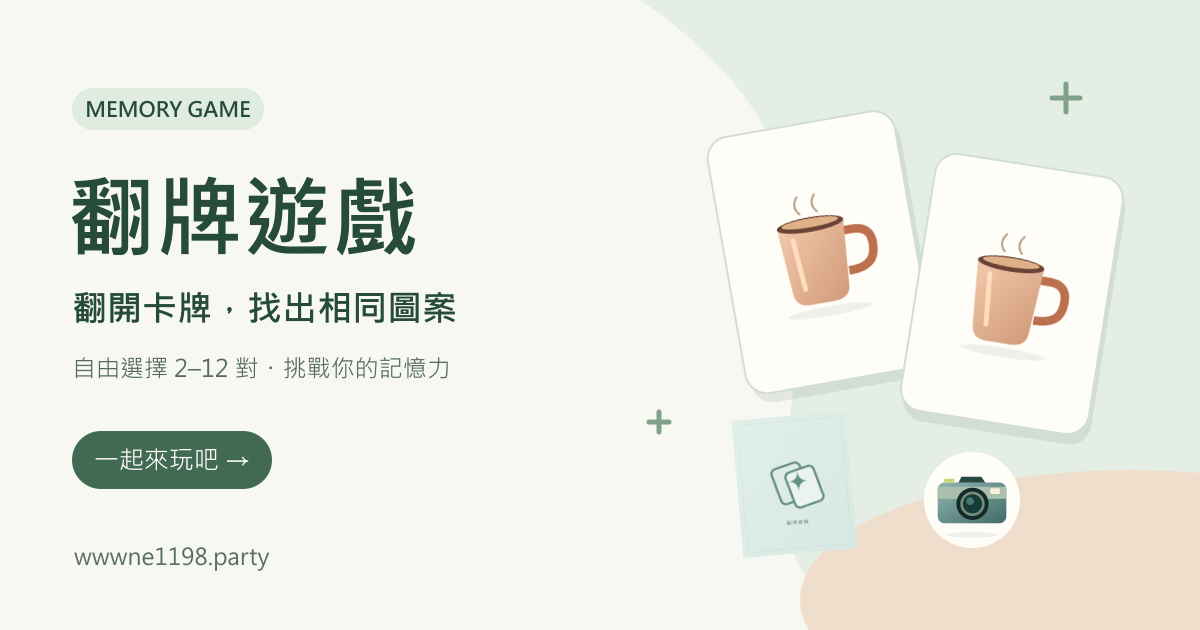
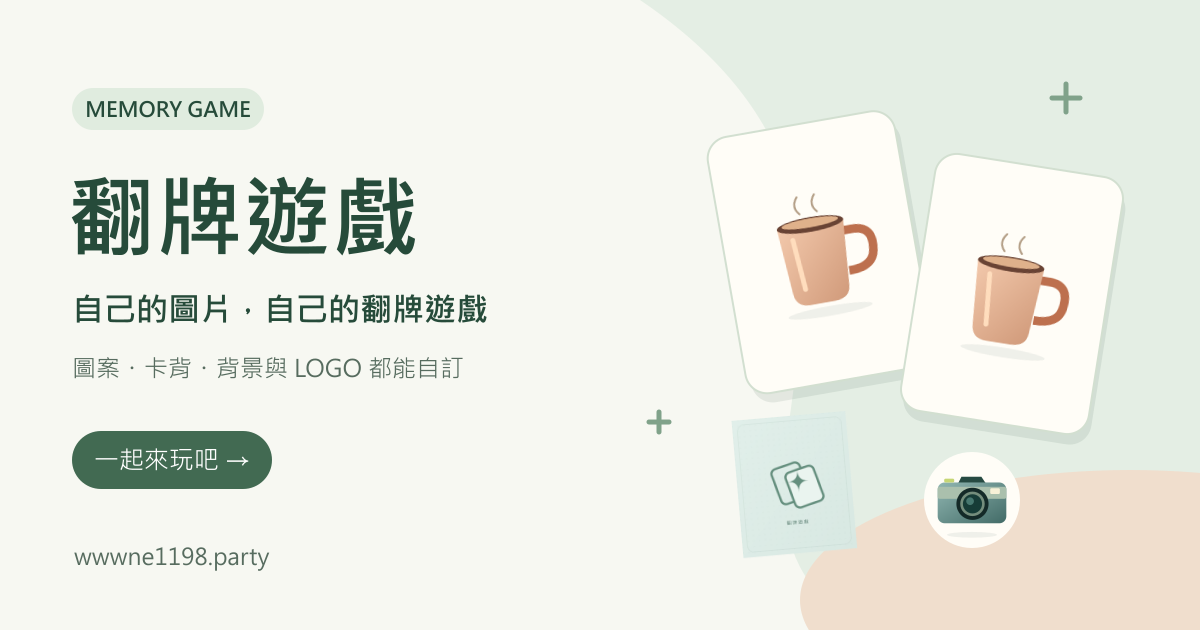
1.1.1

Changed region(s): [[0.0617, 0.4524, 0.4317, 0.5127], [0.0617, 0.5429, 0.4008, 0.6032]]

diff --git a/src/pages/help.html b/src/pages/help.html
@@ -1,1 +1,1 @@
-<article class="prose"><p class="eyebrow">使用說明</p><h1>翻牌遊戲操作說明</h1><p>開始遊戲後，先記住預覽中的圖案位置。預覽結束才開始計算挑戰用時。一次翻開兩張卡牌；相同的圖案會保持顯示，不同的圖案會在短暫停留後蓋上。</p><h2>玩法與計時</h2><p>預設為 6 對（12 張），不限時，開局記憶預覽 3 秒。你可以在設定更改配對數量、限時、預覽時間與配對失敗停留時間。每次有效翻開一張牌計為一次翻牌；同一張牌連點不重複計次。</p><p>「重新開始」只在遊戲進行期間顯示；取消重新開始會回到原本的遊戲狀態。暫停時會遮住牌面，暫停時間不計入成績。切換分頁時自動暫停，回來後請按「繼續」。限時到達時優先判定時間到，不能再翻牌；在時限之前完成最後一對才算過關。</p><h2>設定與畫面預覽</h2><p>設定面板有玩法、卡牌與圖庫、畫面、成績、雲端代碼五個分頁。卡背、12 個正面圖案、背景與 LOGO 都可使用內建素材或自己的圖片。圖庫直接勾選圖案，至少保留 2 種。其他設定欄位與分頁可恢復預設。預覽可切換整體畫面、卡牌細節、正面、卡背與配對成功；修改卡背或選中的圖案時會自動顯示對應效果。手機上預覽保持在設定上方，也可放大查看。圖片可調整大小、位置、透明度、旋轉、四側裁切與顯示方式。LOGO 的畫布寬、高與畫布內圖案縮放各自獨立。</p><p>在設定內按 Ctrl+Z（macOS 為 Cmd+Z）可復原整體設定；文字輸入框保留瀏覽器的文字復原。一次滑桿拖曳只算一步。按「儲存並套用」後，面板保持開啟；若正在遊戲，套用設定會結束該局並回到準備畫面。關閉未套用的草稿會先確認是否捨棄。</p><h2>上傳自己的圖片</h2><p>在「卡牌與圖庫」上傳卡背、選擇要替換的正面圖案；在「畫面」上傳背景或 LOGO。支援 10 MiB、4,000 萬像素以內的 PNG、JPG、WebP。瀏覽器會轉成 WebP、移除原圖中繼資料，並壓縮到每張 256 KiB 以內；背景長邊最多 1536 像素，其餘 1024 像素。縮放、位置、透明度、旋轉與四側裁切都能直接預覽。</p><p>選圖時只保存到此瀏覽器，按「儲存並套用」才會更改遊戲。移除自訂圖片會改用目前選擇的內建素材。圖片保存需要瀏覽器允許 IndexedDB；清除網站資料會移除圖片，建議先保存雲端代碼。</p><h2>數字代碼與跨裝置設定</h2><p>在「雲端代碼」按「產生代碼」並完成驗證，會保存目前草稿與圖片；每份最多 15 張自訂圖片、4 MiB。把顯示的 12 位數字記下，在另一台裝置同一網站的「雲端代碼」輸入，載入後檢查預覽並按「儲存並套用」。修改草稿後需重新產生代碼，舊代碼內容不會被覆寫。</p><p>最後一次成功透過代碼讀取後，30 天未再讀取將失效，伺服器每小時分批清理；只有在本機玩遊戲不會延長期限。讀取後圖片保存在裝置上，不必每次翻牌重新下載。雲端不保存暱稱、排行榜與成績紀錄。</p><p>知道代碼的人都能讀取設定與圖片。請只上傳有權使用、適合分享的內容，不要上傳私密圖片。原建立瀏覽器可在「此瀏覽器建立的代碼」刪除雲端檔；清除網站資料也會清除刪除憑證，已下載到其他裝置的副本不會隨雲端刪除。</p><p>每個網路每日最多產生 5 組、讀取 60 次。全站每日最多 100 次保存、2000 次讀取，並有整體容量限制。達到限額時請稍後或隔日再試，本機遊戲不受影響。每日額度於台灣時間上午 8 點（UTC 午夜）重置，失敗操作也可能計入次數。雲端操作使用 Cloudflare Turnstile 驗證；Cloudflare 會處理請求連線資訊，網站限流僅短暫保存每日雜湊識別，不保存原始 IP。</p><h2>排行榜</h2><p>同一遊戲頁連續玩多局，可以使用不同暱稱留下排名。排行榜只收錄過關成績，依挑戰用時（整數毫秒）、翻牌次數、完成時間排序；完全相同時保持原順序。不同卡牌數量、限時與圖庫等難度設定分組比較，背景、標題和 LOGO 不影響名次分組。</p><p>重新開始、開關設定與進出全螢幕保留本次排名。重新整理、離開遊戲頁或關閉後再開啟會清空。多個分頁各自獨立，歷史成績不會加入本次排行榜。</p><h2>成績紀錄與 CSV</h2><p>成績紀錄預設關閉。本次排行榜可獨立啟用，不會因此保存歷史紀錄。開啟成績紀錄後，只保存你勾選的欄位，另保留必要的成績識別碼、完整組別識別碼與當時規則。關閉紀錄不會刪除已保存的明細。</p><p>全部成績紀錄僅儲存在此瀏覽器，最多保留 500 筆。你可下載 UTF-8 BOM CSV，以 Excel 查看繁體中文。挑戰用時格式為「12 秒 345 毫秒」。清除網站資料、無痕模式結束或更換網域都可能影響保存的內容。恢復設定預設不會刪除成績；刪除成績是獨立操作。</p><h2>鍵盤與全螢幕</h2><p>用 Tab 移動焦點，Enter 或空白鍵翻牌及操作按鈕。設定與成績面板可按 Esc 關閉。按「全螢幕」專注於遊戲；不支援時改用放大遊戲檢視，再按一次或按 Esc 即可退出。裝置開啟「減少動態效果」時，翻牌不使用動畫。</p><h2>常見問題</h2><h3>需要付費、下載或註冊嗎？</h3><p>不需要。翻牌遊戲免費使用，在手機、平板或電腦的瀏覽器開啟遊戲頁，就能開始配對。</p><h3>可以選擇卡牌數量和圖案嗎？</h3><p>可以。按右上角「設定」，選擇 2 至 12 對卡牌、限時或不限時，再到「卡牌與圖庫」勾選內建或自訂圖案。可選配對數不會超過已勾選的圖案種類。</p><h3>為什麼重新整理後排行榜會消失？</h3><p>排行榜只比較這次開啟遊戲頁期間的成績。若想保留自己的歷史成績，可在設定開啟「成績紀錄」；紀錄只存在目前瀏覽器，不會跨裝置同步。</p><a class="button primary" href="{{BASE}}games/memory/">玩一場翻牌遊戲</a></article>
+<article class="prose"><p class="eyebrow">使用說明</p><h1>翻牌遊戲：圖片上傳與設定教學</h1><p>想用自己的照片、插畫或活動圖案製作記憶配對卡牌？本頁說明如何上傳圖片、自訂卡背與背景、調整構圖，再開始翻牌挑戰。</p><p>開始遊戲後，先記住預覽中的圖案位置。預覽結束才開始計算挑戰用時。一次翻開兩張卡牌；相同的圖案會保持顯示，不同的圖案會在短暫停留後蓋上。</p><h2>玩法與計時</h2><p>預設為 6 對（12 張），不限時，開局記憶預覽 3 秒。你可以在設定更改配對數量、限時、預覽時間與配對失敗停留時間。每次有效翻開一張牌計為一次翻牌；同一張牌連點不重複計次。</p><p>「重新開始」只在遊戲進行期間顯示；取消重新開始會回到原本的遊戲狀態。暫停時會遮住牌面，暫停時間不計入成績。切換分頁時自動暫停，回來後請按「繼續」。限時到達時優先判定時間到，不能再翻牌；在時限之前完成最後一對才算過關。</p><h2>設定與畫面預覽</h2><p>設定面板有玩法、卡牌與圖庫、畫面、成績、雲端代碼五個分頁。卡背、12 個正面圖案、背景與 LOGO 都可使用內建素材或自己的圖片。圖庫直接勾選圖案，至少保留 2 種。其他設定欄位與分頁可恢復預設。預覽可切換整體畫面、卡牌細節、正面、卡背與配對成功；修改卡背或選中的圖案時會自動顯示對應效果。手機上預覽保持在設定上方，也可放大查看。圖片可調整大小、位置、透明度、旋轉、四側裁切與顯示方式。LOGO 的畫布寬、高與畫布內圖案縮放各自獨立。</p><p>在設定內按 Ctrl+Z（macOS 為 Cmd+Z）可復原整體設定；文字輸入框保留瀏覽器的文字復原。一次滑桿拖曳只算一步。按「儲存並套用」後，面板保持開啟；若正在遊戲，套用設定會結束該局並回到準備畫面。關閉未套用的草稿會先確認是否捨棄。</p><h2 id="upload-images">如何上傳照片，製作自訂翻牌卡牌？</h2><ol><li>進入遊戲頁，按右上角「設定」。</li><li>選擇「卡牌與圖庫」，在「調整正面圖案」選取要替換的圖案，按「選擇圖片」上傳自己的照片。</li><li>輸入圖案名稱，調整縮放、位置、旋轉或裁切，並在預覽查看牌面。</li><li>勾選要加入遊戲的圖案，至少保留 2 種，最後按「儲存並套用」。遊戲會依配對數隨機選取啟用圖案，每個選中的圖案會出現兩張卡牌。</li></ol><h3>自訂卡背、背景與 LOGO</h3><p>在「卡牌與圖庫」上傳卡背、選擇要替換的正面圖案；在「畫面」上傳背景或 LOGO。支援 10 MiB、4,000 萬像素以內的 PNG、JPG、WebP。瀏覽器會轉成 WebP、移除原圖中繼資料，並壓縮到每張 256 KiB 以內；背景長邊最多 1536 像素，其餘 1024 像素。縮放、位置、透明度、旋轉與四側裁切都能直接預覽。</p><p>選圖時只保存到此瀏覽器，按「儲存並套用」才會更改遊戲。移除自訂圖片會改用目前選擇的內建素材。圖片保存需要瀏覽器允許 IndexedDB；清除網站資料會移除圖片，建議先保存雲端代碼。</p><h2>數字代碼與跨裝置設定</h2><p>在「雲端代碼」按「產生代碼」並完成驗證，會保存目前草稿與圖片；每份最多 15 張自訂圖片、4 MiB。把顯示的 12 位數字記下，在另一台裝置同一網站的「雲端代碼」輸入，載入後檢查預覽並按「儲存並套用」。修改草稿後需重新產生代碼，舊代碼內容不會被覆寫。</p><p>最後一次成功透過代碼讀取後，30 天未再讀取將失效，伺服器每小時分批清理；只有在本機玩遊戲不會延長期限。讀取後圖片保存在裝置上，不必每次翻牌重新下載。雲端不保存暱稱、排行榜與成績紀錄。</p><p>知道代碼的人都能讀取設定與圖片。請只上傳有權使用、適合分享的內容，不要上傳私密圖片。原建立瀏覽器可在「此瀏覽器建立的代碼」刪除雲端檔；清除網站資料也會清除刪除憑證，已下載到其他裝置的副本不會隨雲端刪除。</p><p>每個網路每日最多產生 5 組、讀取 60 次。全站每日最多 100 次保存、2000 次讀取，並有整體容量限制。達到限額時請稍後或隔日再試，本機遊戲不受影響。每日額度於台灣時間上午 8 點（UTC 午夜）重置，失敗操作也可能計入次數。雲端操作使用 Cloudflare Turnstile 驗證；Cloudflare 會處理請求連線資訊，網站限流僅短暫保存每日雜湊識別，不保存原始 IP。</p><h2>排行榜</h2><p>同一遊戲頁連續玩多局，可以使用不同暱稱留下排名。排行榜只收錄過關成績，依挑戰用時（整數毫秒）、翻牌次數、完成時間排序；完全相同時保持原順序。不同卡牌數量、限時與圖庫等難度設定分組比較，背景、標題和 LOGO 不影響名次分組。</p><p>重新開始、開關設定與進出全螢幕保留本次排名。重新整理、離開遊戲頁或關閉後再開啟會清空。多個分頁各自獨立，歷史成績不會加入本次排行榜。</p><h2>成績紀錄與 CSV</h2><p>成績紀錄預設開啟，完成遊戲後會保存在目前瀏覽器。本次排行榜與歷史成績保存可獨立開關，只保存你勾選的欄位，另保留必要的成績識別碼、完整組別識別碼與當時規則。關閉紀錄不會刪除已保存的明細。</p><p>全部成績紀錄僅儲存在此瀏覽器，最多保留 500 筆。你可下載 UTF-8 BOM CSV，以 Excel 查看繁體中文。挑戰用時格式為「12 秒 345 毫秒」。清除網站資料、無痕模式結束或更換網域都可能影響保存的內容。恢復設定預設不會刪除成績；刪除成績是獨立操作。</p><h2>鍵盤與全螢幕</h2><p>用 Tab 移動焦點，Enter 或空白鍵翻牌及操作按鈕。設定與成績面板可按 Esc 關閉。按「全螢幕」專注於遊戲；不支援時改用放大遊戲檢視，再按一次或按 Esc 即可退出。裝置開啟「減少動態效果」時，翻牌不使用動畫。</p><h2>常見問題</h2><h3>需要付費、下載或註冊嗎？</h3><p>不需要。翻牌遊戲免費使用，在手機、平板或電腦的瀏覽器開啟遊戲頁，就能開始配對。</p><h3>可以選擇卡牌數量和圖案嗎？</h3><p>可以。按右上角「設定」，選擇 2 至 12 對卡牌、限時或不限時，再到「卡牌與圖庫」勾選內建或自訂圖案。可選配對數不會超過已勾選的圖案種類。</p><h3>可以上傳哪些圖片？</h3><p>支援 PNG、JPG、WebP，原圖最多 10 MiB、4,000 萬像素，單邊不超過 20,000 像素。上傳後自動壓縮成靜態 WebP，每張最多 256 KiB。可以分別替換正面圖案、卡背、背景與 LOGO。</p><h3>為什麼重新整理後排行榜會消失？</h3><p>排行榜只比較這次開啟遊戲頁期間的成績。歷史成績預設保存在目前瀏覽器，可按「成績紀錄」查看；若曾關閉保存，可在設定重新開啟。成績紀錄不會跨裝置同步。</p><a class="button primary" href="{{BASE}}games/memory/">玩一場翻牌遊戲</a></article>

diff --git a/src/pages/home.html b/src/pages/home.html
@@ -1,3 +1,23 @@
-<section class="home-intro"><p class="eyebrow">線上小遊戲</p><h1>翻牌遊戲</h1><p>免費線上記憶配對遊戲，翻開卡牌，找出每一對相同圖案。</p></section>
-<section class="home-game"><div class="home-art" aria-hidden="true"><img src="{{BASE}}assets/products/02.svg" width="400" height="500" alt=""><img src="{{BASE}}assets/back-mint.svg" width="400" height="500" alt=""><img src="{{BASE}}assets/products/03.svg" width="400" height="500" alt=""></div><div><span class="small-tag">小遊戲</span><h2>記憶配對挑戰</h2><p>一次翻開兩張卡牌，找出相同的圖案。可選擇不限時或限時挑戰。</p><a class="button primary" href="{{BASE}}games/memory/">開始玩</a><p class="hint">免登入 · 自訂圖片 · 手機也能玩</p></div></section>
-<section class="home-features" aria-labelledby="features-title"><h2 id="features-title">免費線上記憶配對，手機與電腦都能玩</h2><p>不用下載或登入，開啟瀏覽器就能開始翻牌。先記住卡牌的位置，每次翻開兩張，找出全部相同圖案即可完成挑戰。</p><h2>從 2 對到 12 對，自訂你的挑戰</h2><p>在設定選擇配對數量、限時或不限時、開局記憶預覽時間，並勾選喜歡的內建圖案或上傳自己的圖片。卡背、背景、標題與 LOGO 都能調整，透過即時預覽確認效果後再套用。使用數字代碼，可將設定與圖片帶到另一台裝置。</p><h2>比較成績，練習找出更多配對</h2><p>完成遊戲後可在排行榜比較這次開啟頁面期間的成績，也可選擇在此瀏覽器保存遊戲紀錄、匯出 CSV。想了解計時、設定與成績保存方式，可閱讀<a href="{{BASE}}help/">翻牌遊戲使用說明</a>。</p></section>
+<section class="home-intro">
+  <p class="eyebrow">免費線上記憶配對遊戲</p>
+  <h1>可上傳圖片的翻牌遊戲</h1>
+  <p>把自己的照片或插畫變成配對卡牌，也能自訂卡背、背景與 LOGO。免下載、免登入，手機與電腦都能玩。</p>
+</section>
+<section class="home-game">
+  <div class="home-art" aria-hidden="true"><img src="{{BASE}}assets/products/02.svg" width="400" height="500" alt=""><img src="{{BASE}}assets/back-mint.svg" width="400" height="500" alt=""><img src="{{BASE}}assets/products/03.svg" width="400" height="500" alt=""></div>
+  <div><span class="small-tag">自訂圖片小遊戲</span><h2>用自己的圖片玩記憶配對</h2><p>上傳照片、寵物圖片或自製圖案，製作你的翻牌卡牌；也可直接選用內建圖庫，開始免費的記憶挑戰。</p><a class="button primary" href="{{BASE}}games/memory/">開始玩，製作自訂卡牌</a><p class="hint">支援 PNG、JPG、WebP · 即時構圖預覽 · 成績自動保存在此瀏覽器</p></div>
+</section>
+<section class="home-features" aria-labelledby="features-title">
+  <h2 id="features-title">上傳照片，自訂配對圖案、卡背與背景</h2>
+  <p>翻牌遊戲提供 12 個可替換的圖案位置。進入「設定 → 卡牌與圖庫」，選擇圖案後上傳自己的照片或圖片，便能將同一張圖片配成一對；也能替換卡背。在「畫面」可上傳背景和 LOGO，製作符合活動主題的遊戲畫面。</p>
+  <h2>調整圖片構圖，預覽後再套用</h2>
+  <p>上傳圖片後，可調整縮放、水平與垂直位置、旋轉、透明度和四側裁切，也可選擇完整顯示、填滿裁切或拉伸。即時預覽會顯示卡牌正面、卡背及整體畫面，方便確認照片是否置中、圖案是否清楚。</p>
+  <p>圖片先壓縮並保存在目前瀏覽器。需要在另一台裝置使用同樣的卡牌與構圖時，可在「雲端代碼」保存設定，再輸入 12 位數字載入。<a href="{{BASE}}help/#upload-images">查看圖片上傳與設定教學</a>。</p>
+  <h2>從 2 對到 12 對，自訂你的記憶挑戰</h2>
+  <p>選擇 2 至 12 對卡牌、限時或不限時、開局記憶預覽時間，並勾選想加入的內建或自訂圖案。每次翻開兩張卡牌，找出全部相同圖案即可完成挑戰。</p>
+  <h2>自動保存成績，查看紀錄與匯出 CSV</h2>
+  <p>成績紀錄預設開啟，完成遊戲後會保存在目前瀏覽器，最多 500 筆，可查看挑戰用時、翻牌次數並匯出 CSV。排行榜比較這次開啟頁面期間的成績；歷史紀錄可另行查看。保存功能可在設定中關閉。</p>
+  <h2>自訂圖片翻牌遊戲常見問題</h2>
+  <h3>可以用自己的照片做翻牌遊戲嗎？</h3><p>可以。上傳 PNG、JPG 或 WebP 圖片替換配對圖案，輸入圖案名稱並調整構圖，再按「儲存並套用」。遊戲會依配對數隨機選取啟用圖案，每個選中的圖案會出現兩張，供玩家找出相同的一對。</p>
+  <h3>只想換卡背或背景也可以嗎？</h3><p>可以。正面圖案、卡背、背景與 LOGO 分別設定，可保留內建圖案，只替換想更改的圖片。</p>
+</section>

diff --git a/src/pages/game.html b/src/pages/game.html
@@ -1,4 +1,4 @@
-<div class="page-heading"><div><p class="eyebrow">記憶配對</p><h1>翻牌遊戲</h1><p class="muted">翻開、記住，找到每一對相同的圖案。</p></div><div class="heading-tools"><div class="heading-actions"><button id="records-open" class="button quiet">成績紀錄</button><button id="settings-open" class="button" aria-describedby="settings-hint">⚙ <span>設定</span></button></div><p id="settings-hint" class="settings-hint"><strong>點「設定」可以調整</strong><span>配對數與限時 · 自訂圖片與構圖<br>背景、標題與 LOGO · 雲端代碼跨裝置載入</span></p></div></div>
+<div class="page-heading"><div><p class="eyebrow">記憶配對</p><h1>自訂圖片翻牌遊戲</h1><p class="muted">上傳自己的照片製作配對卡牌，也能替換卡背與背景；翻開、記住，找到每一對相同圖案。</p></div><div class="heading-tools"><div class="heading-actions"><button id="records-open" class="button quiet">成績紀錄</button><button id="settings-open" class="button" aria-describedby="settings-hint">⚙ <span>設定</span></button></div><p id="settings-hint" class="settings-hint"><strong>點「設定」可以調整</strong><span>配對數與限時 · 自訂圖片與構圖<br>背景、標題與 LOGO · 雲端代碼跨裝置載入</span></p></div></div>
 <div id="storage-warning" class="notice warning" role="status" hidden></div>
 <noscript><p class="notice warning">翻牌遊戲需要 JavaScript 才能操作。請在瀏覽器開啟 JavaScript，或先閱讀<a href="{{BASE}}help/">遊戲玩法與設定說明</a>。</p></noscript>
 <div class="game-layout">
@@ -15,6 +15,7 @@
     <div class="small-guide"><span class="guide-icon" aria-hidden="true">✦</span><div><h3>配對方式</h3><p>一次翻開兩張牌。找到一對，就留下來；不同的圖案會再蓋上。</p></div></div>
   </aside>
 </div>
+<section class="below-game" aria-labelledby="custom-images-title"><h2 id="custom-images-title">上傳自己的圖片，製作記憶配對卡牌</h2><p>按右上角「設定」，在「卡牌與圖庫」選擇要替換的圖案，上傳 PNG、JPG 或 WebP 照片，再調整圖案名稱、縮放、位置、旋轉與裁切。12 種配對圖案和卡背皆可自訂；背景與 LOGO 則在「畫面」更換。</p><p>即時預覽確認效果後，按「儲存並套用」開始玩。圖片先保存在此瀏覽器；成績紀錄預設開啟，也可在設定中關閉。</p><a href="{{BASE}}help/#upload-images">查看自訂圖片與照片上傳教學</a></section>
 <section class="below-game"><h2>怎麼玩？</h2><div class="steps"><p><b>01</b><strong>先看一眼</strong>記住開局預覽中的圖案位置。</p><p><b>02</b><strong>翻開兩張</strong>找出一樣的圖案，配成一對。</p><p><b>03</b><strong>收集所有配對</strong>完成後再挑戰一次，看看進步了多少。</p></div><a href="{{BASE}}help/">查看完整使用說明</a><div data-ad-placement="help"></div></section>
 <dialog id="settings-dialog" class="settings-dialog" aria-labelledby="settings-title"></dialog>
 <dialog id="records-dialog" class="records-dialog" aria-labelledby="records-title"></dialog>

diff --git a/public/js/settings.js b/public/js/settings.js
@@ -148,7 +148,7 @@ export function openSettings(applied, apply) {
     host.innerHTML = `<div class="tab-top"><h3>${TABS[tab]}</h3><button class="button small" id="reset-page">本頁恢復預設</button></div>${SPECS[tab].map(s => field(s)).join('')}`;
     if (tab === 'cards') host.insertAdjacentHTML('beforeend', uploadField('back', '自訂卡背') + transformFields('back.', '卡背圖片構圖') + library());
     if (tab === 'screen') host.insertAdjacentHTML('beforeend', uploadField('background', '自訂背景') + transformFields('background.', '背景圖片構圖') + uploadField('logo', '自訂 LOGO') + transformFields('logo.', 'LOGO 畫布內圖片構圖'));
-    if (tab === 'records') host.insertAdjacentHTML('beforeend', `<p class="hint">成績紀錄最多 500 筆，僅儲存在此瀏覽器。關閉保存不刪除舊成績。排行榜不會加入歷史明細。</p><h3>保存的成績欄位</h3><div class="fields-list">${Object.entries(FIELDS).map(([key, name]) => `<div><label><input type="checkbox" data-record-field="${key}" ${history.value.records.fields.includes(key) ? 'checked' : ''}>${name}</label><button class="reset-field" data-reset-record-field="${key}" aria-label="${name}欄位恢復預設">恢復預設</button></div>`).join('')}</div><p class="hint">成績識別碼、完整組別識別碼、是否限時與限時時長固定保留。即使排行榜開啟，也只保存你勾選的其他欄位。</p>`);
+    if (tab === 'records') host.insertAdjacentHTML('beforeend', `<p class="hint">成績紀錄預設開啟，最多保存 500 筆，僅儲存在此瀏覽器。可在此關閉保存；關閉不刪除舊成績。排行榜不會加入歷史明細。</p><h3>保存的成績欄位</h3><div class="fields-list">${Object.entries(FIELDS).map(([key, name]) => `<div><label><input type="checkbox" data-record-field="${key}" ${history.value.records.fields.includes(key) ? 'checked' : ''}>${name}</label><button class="reset-field" data-reset-record-field="${key}" aria-label="${name}欄位恢復預設">恢復預設</button></div>`).join('')}</div><p class="hint">成績識別碼、完整組別識別碼、是否限時與限時時長固定保留。即使排行榜開啟，也只保存你勾選的其他欄位。</p>`);
     host.querySelector('#reset-page').onclick = () => {
       history.begin(); SPECS[tab].forEach(([path]) => set(history.value, path, copy(get(base, path))));
       if (tab === 'cards') { history.value.back = copy(base.back); history.value.products = copy(base.products); }

diff --git a/public/js/core.js b/public/js/core.js
@@ -22,7 +22,7 @@ export function defaults() {
     background: transform({ asset: 'dots-v1', fit: 'cover' }),
     logo: transform({ asset: 'none', canvasW: 180, canvasH: 54, boxX: 0, boxY: 0 }),
     products: PRODUCTS.map(p => ({ id: p.id, enabled: true, image: transform({ zoom: 90 }) })),
-    records: { enabled: false, leaderboard: true, fields: Object.keys(FIELDS) }, event: '',
+    records: { enabled: true, leaderboard: true, fields: Object.keys(FIELDS) }, event: '',
   };
 }
 export const TRANSFORM_SPECS = [

diff --git a/驗收報告.md b/驗收報告.md
@@ -1,6 +1,16 @@
 # 翻牌遊戲純靜態網站版 驗收報告
 
 
+## v1.1.1 預設保存成績與自訂圖片 SEO — 2026-10-07
+
+- 首次使用、缺少保存選項及恢復預設時開啟成績紀錄；舊設定明確為關閉時保留原選擇。恢復預設不刪除既有成績，復原可回到關閉狀態。排行榜仍只比較本次遊戲頁的成績。
+- 首頁、遊戲頁與使用說明加入可直接爬取的圖片上傳介紹、PNG／JPG／WebP 格式、配對圖案／卡背／背景／LOGO 用途、構圖設定及教學連結。頁面標題、摘要、OG／Twitter 標籤、分享圖片與 WebApplication 功能清單同步更新。
+- 86 項前後端測試通過；新增首次預設、舊選項保留、恢復／復原與完整建置的上傳文案／分享標籤／教學錨點驗證。正式建置通過 51 個靜態檔案、60 個頁面連結與資產參照檢查。
+- Codex 內建瀏覽器使用全新本機 origin 實測：保存成績預設勾選；完成一局後自動新增 1 筆成績，重新整理後仍為 1 筆。未操作使用者既有網站資料。
+- 桌面 1280×900 首頁，以及 360×800 首頁、遊戲、教學頁無水平溢出；圖片上傳教學連結定位正確。三張 1200×630 分享 PNG 已實際開啟確認文字與排版。瀏覽器沒有 error／warn。未另測實體手機。
+- 截圖位於 qa/v1.1.1-records-default.png、v1.1.1-records-persist.png、v1.1.1-home-desktop.png、v1.1.1-home-mobile.png、v1.1.1-game-mobile.png、v1.1.1-help-mobile.png；QA 檔不放入正式網站或交付原始碼。
+- 本次修改已同步至原 Git 專案並整理為 v1.1.1 交付。沒有提交、推送、正式部署或操作 Search Console；Cloudflare Worker 功能未變更。ZIP 解壓、雜湊與重建驗證的詳細結果另存 qa/v1.1.1-package-check.json。
+
 ## v1.1.0 自訂圖片與雲端代碼 — 2026-10-06
 
 - 83 項前後端測試通過，包含原本的遊戲、音效、SEO、GA4 與成績測試，新增封包往返、雜湊／格式／容量檢查、D1 原子容量預留、同請求重試、IP 與全站限流、30 天續期／到期、刪除失敗後清理與 Turnstile hostname／action 驗證。

diff --git a/搜尋索引與發布檢查.md b/搜尋索引與發布檢查.md
@@ -2,7 +2,21 @@
 
 正式站名：**翻牌遊戲**。正式網站：<https://wwwne1198.party/>。
 
-## 本次修正與發布
+## v1.1.1 自訂圖片介紹與發布
+
+本版加強圖片上傳功能的可見內文、教學連結、頁面標題、摘要、分享標籤與圖片，以及 WebApplication 的功能清單。發布後可核對以下標題：
+
+| 頁面 | HTML title |
+| --- | --- |
+| 首頁 | 翻牌遊戲｜免費線上記憶配對，可上傳自訂圖片 |
+| 遊戲 | 上傳照片，自訂記憶配對卡牌｜翻牌遊戲 |
+| 使用說明 | 圖片上傳與玩法設定教學｜翻牌遊戲 |
+
+圖片上傳介紹直接寫在靜態 HTML，搜尋引擎不必開啟設定面板即可讀取；圖片上傳教學位於 `/help/#upload-images`。成績紀錄首次使用及恢復預設時開啟，已有明確關閉選項則保留。正式原始碼仍需依下方流程提交並推送。
+
+Google 搜尋結果標題與摘要可能採用頁面其他內容；本版讓 title、主要標題、摘要及內文一致描述實際功能，沒有重複堆疊關鍵字。官方說明：[搜尋標題](https://developers.google.com/search/docs/appearance/title-link)、[搜尋摘要](https://developers.google.com/search/docs/appearance/snippet)。
+
+## 自訂網域修正與發布流程
 
 v1.0.7 修正自訂網域仍載入 `/memory-card-game/style.css` 的問題。原檔案實際位於 `/style.css`，舊路徑回傳 404；相同前綴也影響 JavaScript、圖片、導覽與 SEO 網址。
 
@@ -11,7 +25,7 @@ v1.0.7 修正自訂網域仍載入 `/memory-card-game/style.css` 的問題。原
 ```powershell
 git status
 git add .
-git commit -m "Fix custom domain paths and improve SEO sharing"
+git commit -m "Enable records by default and improve custom image SEO"
 git push
 ```
 

diff --git a/CHANGELOG.md b/CHANGELOG.md
@@ -1,5 +1,11 @@
 # 更新紀錄
 
+## 1.1.1 — 2026-10-07
+
+- 新使用者與恢復預設時開啟成績保存；保留既有明確關閉的設定。
+- 首頁、遊戲頁、說明頁強化照片上傳、自訂圖案、卡背、背景與構圖的靜態說明。
+- 更新各頁搜尋標題、description、H1、OG／Twitter 標籤、分享圖及 WebApplication 功能說明。
+
 ## 1.1.0 — 2026-10-06
 
 - 支援自訂卡背、12 個圖案、背景與 LOGO；圖片壓縮、構圖調整、圖案命名與 IndexedDB 保存。
